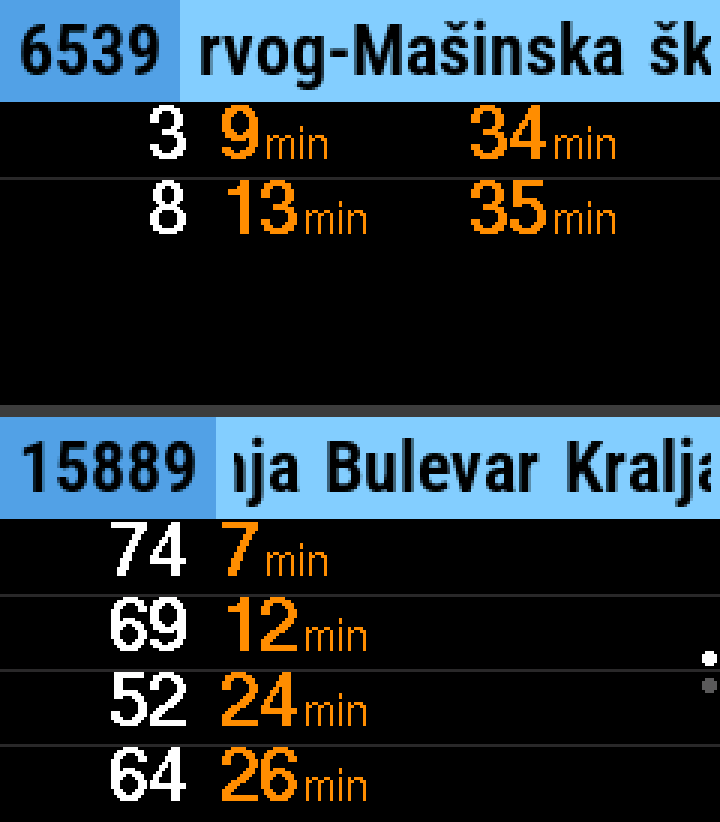
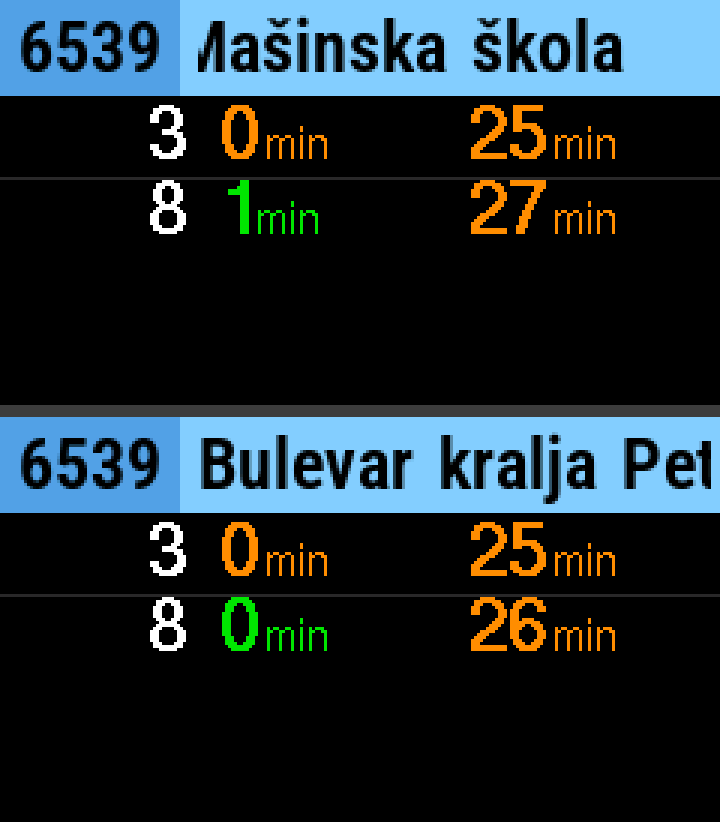
T-Display: blue band 2 px shorter (32 px) for a gap above the route rows
Number box and marquee centred in the band; rows unchanged. README + docs/img/tdisplay.png updated
(real framebuffer screenshots). Built with Grok Bot.

diff --git a/firmware/src/tdisplay.cpp b/firmware/src/tdisplay.cpp
@@ -3,7 +3,7 @@
 // parsed by include/frame.h. Built with Grok Bot.
 //
 // Layout (240x135):
-//   top 34 px  light blue header: stop number (black on a darker blue box; "*" warming, "!" nsmart offline;
+//   top 34 px  light blue band (32 px, then 2 px black gap before the routes): stop number (black on a darker blue box; "*" warming, "!" nsmart offline;
 //              inverted while switching stops), then the stop name (N line, server v4.4+) in one line, Roboto
 //              Condensed SemiBold 24 px anti-aliased (TFT_eSPI smooth font, include/hdr_font.h made by
 //              tools/make_vlw.py, has č ć š ž đ). A name wider than the space scrolls (marquee: 2 s pause, then
@@ -62,7 +62,8 @@
 
 #define W 240
 #define H 135
-#define HDR 34
+#define HDR 34                    // header area; route rows start below it
+#define BAND (HDR - 2)            // blue band height: 2 px of black gap above the first route row
 
 TFT_eSPI tft;
 TFT_eSprite spr(&tft);
@@ -152,8 +153,8 @@ static void smoothAt(TFT_eSPI &g, int x, int y, const char *str) { g.setCursor(x
 static void drawHeader() {
   TFT_eSPI &g = gfx();
   bool switching = btnFeedbackSince != 0;
-  g.fillRect(0, 0, W, HDR, C_BLUE);
-  const int top = (HDR - (g.gFont.maxAscent + g.gFont.maxDescent)) / 2;
+  g.fillRect(0, 0, W, BAND, C_BLUE);
+  const int top = (BAND - (g.gFont.maxAscent + g.gFont.maxDescent)) / 2;
   g.setTextWrap(false, false);
   // stop number: black on a darker blue box; inverted while switching stops (until the new frame arrives)
   char uid[12];
@@ -161,7 +162,7 @@ static void drawHeader() {
   snprintf(uid, sizeof uid, "%s%s", stops[stopIdx], mark);
   int ub = g.textWidth(uid) + 12;
   uint16_t boxBg = switching ? TFT_BLACK : C_BLUE2, boxFg = switching ? C_BLUE : TFT_BLACK;
-  g.fillRect(0, 0, ub, HDR, boxBg);
+  g.fillRect(0, 0, ub, BAND, boxBg);
   g.setTextColor(boxFg, boxBg);
   smoothAt(g, 6, top, uid);
   // stop name
@@ -175,7 +176,7 @@ static void drawHeader() {
   if (!nameTW) return;
   g.setTextColor(TFT_BLACK, C_BLUE);
   if (nameTW <= nameW) { smoothAt(g, nameX, top, name); nameOff = 0; return; }
-  g.setViewport(nameX, 0, nameW, HDR);             // clip; coordinates relative to the viewport
+  g.setViewport(nameX, 0, nameW, BAND);             // clip; coordinates relative to the viewport
   smoothAt(g, -nameOff, top, name);
   if (nameTW + MARQUEE_GAP - nameOff < nameW) smoothAt(g, nameTW + MARQUEE_GAP - nameOff, top, name);
   g.resetViewport();

diff --git a/README.md b/README.md
@@ -232,7 +232,7 @@ pio device monitor                     # optional: "[nstupido] GET … -> 200" l
 
 LilyGO TTGO T-Display: ESP32-D0WDQ6 (4 MB flash, no PSRAM), 1.14″ ST7789V IPS 135×240 used landscape (240×135), CP2104 USB-UART, buttons GPIO0 and GPIO35. Same server, same `/frame`, same stops, same error texts and retry rules as the OLED board. Built with Grok Bot.
 
-![T-Display, real framebuffer screenshots: 6539 (name scrolling) and 15889 (page 1 of 2)](docs/img/tdisplay.png)
+![T-Display, real framebuffer screenshots: stop 6539 at two moments of the scrolling name](docs/img/tdisplay.png)
 
 ```bash
 cd firmware                                   # secrets.ini as for the OLED board
@@ -241,7 +241,7 @@ pio device monitor -e tdisplay                # "[nstupido] stop 6539 \"Bulevar 
 ```
 
 Layout (Paul's spec):
-- **Header**, top quarter (34 px), light blue: the **stop number** in black on a darker blue box (`*` warming, `!` nsmart offline; the box inverts while switching stops), then the **stop name** on one line in Roboto Condensed SemiBold 24 px, anti-aliased, black. A name that does not fit **scrolls** (marquee: 2 s pause at the start, then ~33 px/s, wraps with a gap); short names stay still. No `N` line from the server (older than v4.4) → the number alone.
+- **Header**, top quarter (34 px): a 32 px light blue band plus a 2 px black gap above the routes (Paul: more space between the band and the route numbers); in the band the **stop number** in black on a darker blue box (`*` warming, `!` nsmart offline; the box inverts while switching stops), then the **stop name** on one line in Roboto Condensed SemiBold 24 px, anti-aliased, black. A name that does not fit **scrolls** (marquee: 2 s pause at the start, then ~33 px/s, wraps with a gap); short names stay still. No `N` line from the server (older than v4.4) → the number alone.
 - **Routes**, one per row, 4 rows (`-DTD_ROWS=5` → 5 smaller rows): route number **bold** white, right-aligned in a fixed 5-character column; then up to two waits `<n> min`, coloured by source: **G** live = green, **P** timetable = orange, **E** estimate = yellow.
 - **Pages**: more routes than rows → dots at the right edge (current page white). Pages turn only by button; 30 s after the last page press the board goes back to page 1 (the nearest buses).
 - **Buttons**: left / GPIO0 = next stop (page 1); right / GPIO35 = next page. Same 30 ms debounce as the OLED board (the earlier phantom presses came from a changed debounce).
